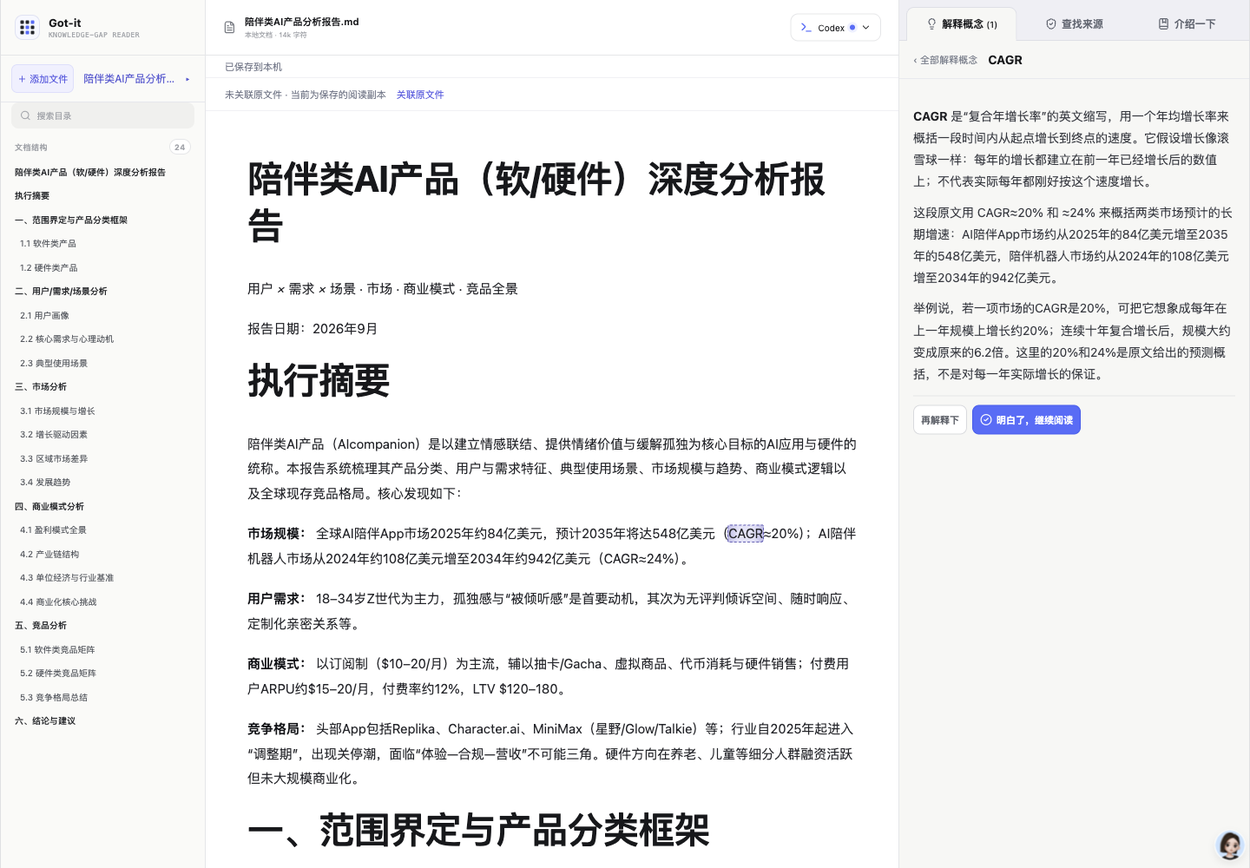
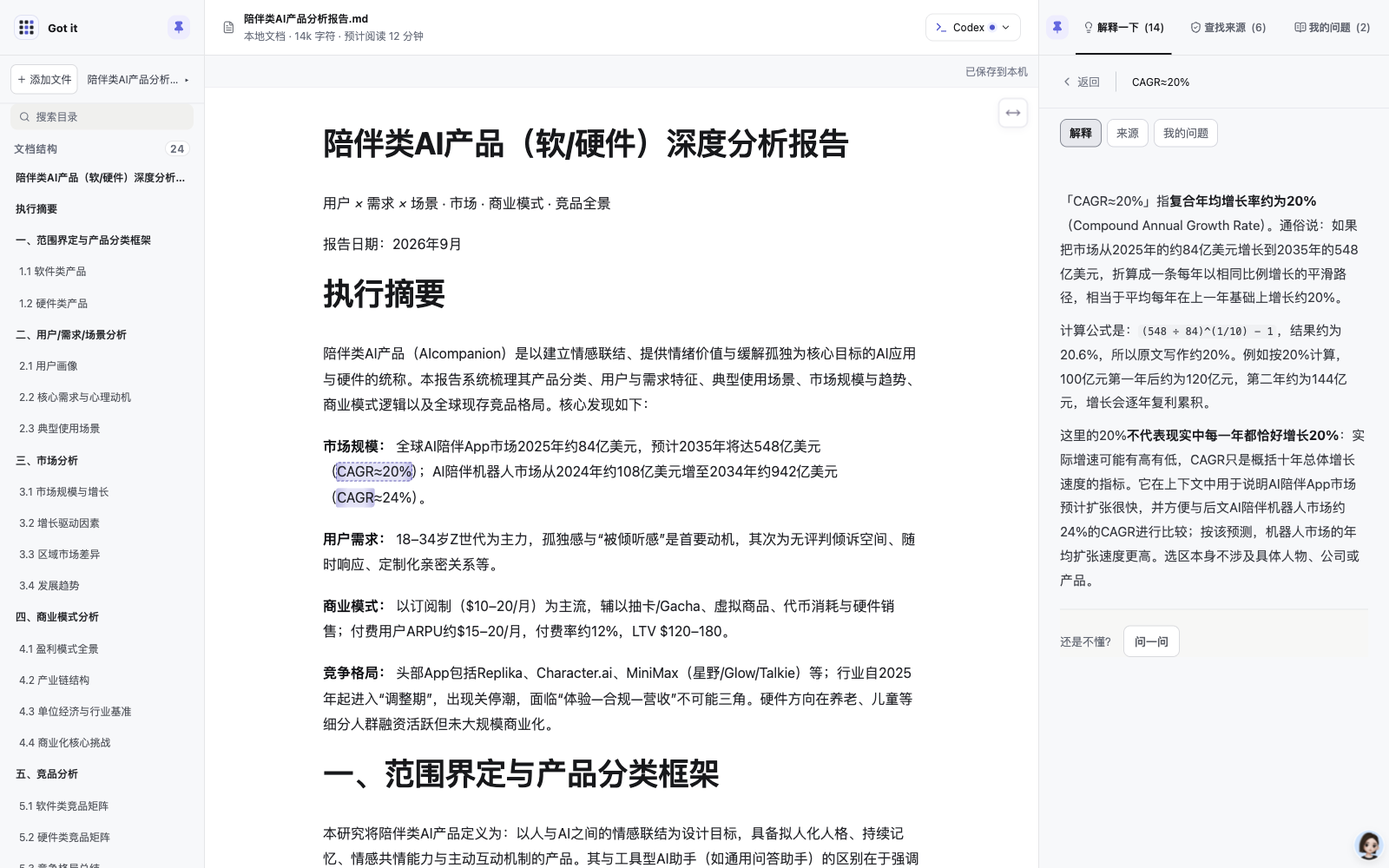
Refresh README and screenshots with current Markdown and WGSN PDF views

diff --git a/README.en.md b/README.en.md
@@ -1,73 +1,66 @@
-# Got it
-
-**Make sense of it. Keep reading.**
-
-Understand what stopped you. Get back to the bigger picture.
+# Got-it
 
 [简体中文](README.md) · **English**
 
-## Why Got it
+**Make sense of it. Keep reading.**
 
-AI can produce a long report in minutes. Understanding it still takes time.
+Got-it is a local-first Markdown and PDF reader. Select an unfamiliar passage, explain it or find sources beside the original, and keep useful answers linked to the text. Your reading records stay in a local library, ready to reopen.
 
-While reading a business analysis, research report, or long article, you might encounter an unfamiliar concept, a confusing argument, or a number whose source is unclear. To make sense of it, you copy the passage into an AI app, add some context, and ask for an explanation.
+> **v0.1.0 · Early preview.** Requires a locally installed, signed-in Codex. macOS Apple Silicon has been tested; Windows/Linux remain experimental pending native UI validation. No accounts, cloud sync or collaboration inside Got-it.
 
-You may get an answer, but that answer now lives in a separate conversation, disconnected from the text. Returning to the article means finding your train of thought again. The next time you read it, you may not remember what you asked—or where the answer went.
+## See it in action
 
-Got it keeps that process beside the article: **select what you don't understand, get an explanation or check the evidence, then keep reading.** Save useful explanations as knowledge cards linked to the original passage, ready to revisit later.
+These screenshots were captured from the latest code on **October 9, 2026**. The Markdown example is an AI companion product analysis; the PDF is WGSN’s report on silver-generation consumers. Only excerpts are shown, and the complete reports are not distributed. Report figures are unverified input, not endorsed conclusions. Markdown answers are previously saved real model responses, not newly generated for this refresh.
 
-## What the MVP does
+### 1. Keep reading in context
 
-Got it is an AI reading tool for Markdown articles and original-layout PDFs.
+Navigate chapters on the left, read in the center, and revisit knowledge cards on the right. Markdown keeps headings, lists and tables; PDFs retain their original layout. Switching documents or reopening an answer does not call a model or change the original file.
 
-| When you encounter… | Got it helps you… |
-| --- | --- |
-| An unfamiliar concept or term | Understand it in context, with simple examples. |
-| A company, product, or subject you don't recognize | Learn what it is, what it does, and how it relates to the article. |
-| A claim or figure with unclear support | Find relevant sources, see how the evidence relates to the claim, and identify remaining gaps. |
-| An explanation that still feels difficult | Ask for a shorter explanation or a simple example. |
-| An explanation worth keeping | Keep it as a knowledge card linked to the passage, saved with your reading progress. |
+![Current Markdown reader with the AI companion report and knowledge cards](docs/images/reading.png)
 
-Concept explanations and specific questions search when necessary background or current information is missing; sufficient source material is explained directly. Explanations and source results offer a noninteractive “Still unclear?” prompt beside an Ask button. Opening it does not call a model; submitting creates a separate question. Source results no longer show a search-again or answer-history entry; failed or interrupted searches can still be retried. Stored history is preserved. Model calls still require a network connection. Timeouts and cancellation preserve partial content; retries retain the original mode.
+### 2. Explain an unfamiliar concept or product
 
-Web-based verification requires an AI connection that supports search. When evidence is insufficient, Got it makes that uncertainty visible rather than treating an AI answer as an established fact.
+Select a term such as CAGR, a product name, or a difficult passage and choose **Explain**. Concepts, people, companies and products share this entry point. Missing background can be searched when needed. Use **Ask** to submit a more specific question.
 
-All functions default to **GPT-6.1 SOL / Medium**. The model menu reads the installed Codex catalog and supports explicit refresh. Unavailable target configurations are reported rather than silently replaced. Historical answers keep their original model metadata.
+![A CAGR explanation beside the original passage](docs/images/explain.png)
 
-Explain covers concepts, people, organizations and products. Each selected passage can retain separate explanation, source and custom-question results. First opening prefers an existing explanation; later visits remember the last result viewed. The custom-question switch shows only “我的问题” (My questions); individual questions remain accessible from their list.
+### 3. Find sources for a claim
 
-The right panel resizes from 220–720px. Its header progressively switches from full labels to icons with counts, then icons only. Full labels remain down to 380px and counts down to 240px, with a small buffer when expanding. Drag another 48px beyond the minimum and release to collapse; reopening restores the previous width and draft. Narrow screens use a drawer.
+Select a claim or figure, find related sources, and inspect the original pages and verification details. **Finding a link does not establish that a claim is true.** Search execution, page access, quotation checks and evidential support are separate states.
 
-Markdown has a horizontal-arrow icon in the upper-right reading corner for content width (50–100%, default 80%), without changing font size. Code blocks use a light background and the body text size. Markdown and PDF save status stays at the far right, with delayed success feedback to avoid flickering during continuous changes.
+![A related source for the market forecast around the selected CAGR](docs/images/sources.png)
 
-The document header estimates reading time locally. PDFs use native text only when coverage is sufficient; this estimate never triggers OCR or an AI request. “向全文提问” (Ask about the whole document) sits below the right-hand My questions list. It uses complete short texts or up to 16,000 characters of structure and relevant excerpts for long documents; PDFs require sufficient native text. Selection-based questions remain scoped to their passage. Enter sends; Shift+Enter adds a line, with input-method composition protected.
+### 4. Ask your own question
 
-## From a question back to the text
+Ask about the selected passage—for example, recalculate a growth rate from the report’s numbers. Explanations, sources and questions remain separate and can be switched without regenerating answers. Click the excerpt above an answer to return to its original location.
 
-1. **Open an article.** Import a Markdown or PDF document and start reading.
-2. **Select what stops you.** Choose Explain or Find sources, or open Ask to enter a specific question.
-3. **Make sense of it beside the text.** Read the answer, ask a specific question, or inspect the sources.
-4. **Keep reading.** Return to the article or the previous list position without confirming understanding. Answers are saved with their original passages.
+![A specific question and CAGR calculation using the report's figures](docs/images/question.png)
 
-Notes remain linked to their original passages and are saved in a local on-disk reading library. Browser storage retains preferences and an emergency recovery cache. Original files are not modified. PDF copies, OCR data and selected image crops are stored alongside the reading records. Legacy `.focus` and complete JSON backups can still be imported; the current UI does not offer an export/download button.
+**Ask about the whole document** sits below the My questions list. Short documents use all available text; long documents provide up to 16,000 characters of structure and relevant excerpts, with coverage disclosed. PDFs need sufficient native text; this feature does not automatically run OCR.
 
-When two different, unresolved reading records exist, a short dialog describes the differences and lets you choose which to continue. Identical, single or already-resolved records do not prompt. Clicking outside or pressing Escape dismisses the dialog for this reading visit; reopening the article reminds you of unresolved differences. The other record stays safely stored without a permanent history panel.
+### 5. Read and select directly on PDF pages
 
-Use the trash icon beside the category count to enter deletion mode. Each card shows an aligned trash icon; click once to change it to a confirmation check, then click again to delete the card and its answers. Escape or the heading trash icon exits deletion mode. Other cards and the original document remain intact.
+WGSN’s original case-study page is shown below. PDFs scroll continuously, and the chapter outline supports search and navigation. Collapse the sidebars for more reading space.
 
-## PDF reading
+![WGSN report with original images, layout and chapter navigation](docs/images/pdf-reading.png)
 
-Select native text directly, or use “框选内容” for images and scanned or complex passages. Choose Explain, Find sources, or submit a specific question; only then does local OCR start. The original crop and auxiliary text go to the model together. Cancel, Escape or a blank-area click clears the draft. The compact excerpt locates the original page; narrow screens close the answer panel after successful positioning. The separate preview and OCR correction controls have been removed; existing crops, original recognition text and corrections remain saved and are reused for retries. The app fills the window without outer gutters. Both sidebars can be collapsed or pinned independently using mirrored pin controls beside the reading area; pin preferences are saved locally. Edge buttons or hover reveal collapsed sidebars and let automatically fitted PDFs follow the remaining width. Intentionally opened answers stay visible. An unpinned answer panel can be closed with Escape or its bottom-right collapse button, retaining answers and unsent drafts. Narrow screens retain the drawer controls. A single 36px sticky toolbar holds the current page, region selection, inline instructions and right-aligned save state; controls are not repeated on every page.
+Select native text directly, or use **Select region** for images, scans and complex layouts. Include the image and necessary captions, then choose Explain, Find sources or Ask. Local recognition and the model request begin only after choosing a function. This screenshot shows the selection menu before an answer is requested.
 
-The left navigation can collapse, open temporarily on hover at the left edge, or remain pinned. Pages, highlights, answers and learning states survive reopening; cards return to their original page regions.
+![A WGSN image and caption selected with the available question actions](docs/images/pdf-selection.png)
 
-PDF pages scroll continuously and fit the reading area by default. A diagonal-arrow icon in the upper-right corner of the reading area opens a slider and percentage field for continuous zoom from 25% to 400%; manual scale persists through window and sidebar changes and is remembered locally per PDF. The reset icon restores automatic fitting. The same compact icon opens the controls at every screen size; Escape or an outside click closes them. Desktop trackpad zoom events and Ctrl/Command + wheel zoom the original content; ordinary wheel scrolling remains unchanged. Limits: 50 MiB, 200 pages, no encrypted files; OCR is limited to 60 seconds per region and can contain recognition errors. Crop uploads are PNG, at most 8 MiB and 4096 pixels per side. Image explanations require an image-capable Codex model and are not fact verification. PDF/OCR assets are prepared locally during installation; AI requests still need network access.
+### Reading controls
 
-PDF records are not portable `.focus`/JSON exports. Back up the complete application data directory with the service stopped. Legacy Markdown backups remain supported; importing Markdown with local relative image files is still a separate gap. See the [latest update and validation](docs/updates/2026-10-09-reading-controls.md).
+- Pin or collapse either sidebar independently. Drag the right panel to resize it; narrow screens use drawers.
+- Adjust Markdown content width from 50–100% (default 80%), or PDF zoom from 25–400%, using the upper-right reading control. PDF can reset to automatic fitting. Preferences stay local.
+- Wait for **Saved locally** before closing. Reopen to continue reading and revisit cards. Save failures offer retry; conflicting records retain both versions for your choice.
+- Delete cards through the category’s trash control and a second confirmation. The original passage and other cards remain intact.
+- Opening a question input does not call a model. Enter sends; Shift+Enter adds a line. Stopping, timing out or failing preserves received content and allows retry.
+
+All functions currently default to **GPT-6.1 SOL / medium**. AI settings read the installed Codex model catalog; unavailable configurations are reported rather than silently replaced. Reading-time estimates are computed locally without model calls. See the [latest update and validation scope](docs/updates/2026-10-09-reading-controls.md).
 
 ## Run locally
 
-Early preview (v0.1.0). Requires Node.js **24.14.1 / Node 24**, npm **11.x**, and a locally installed, signed-in Codex. macOS Apple Silicon has been tested; Windows/Linux remain experimental pending native UI validation.
+Requires **Node.js 24.14.1 / Node 24** and **npm 11.x**. If using nvm, run `nvm install` and `nvm use` first.
 
 ```bash
 npm ci
@@ -75,12 +68,59 @@ npm run build
 npm start
 ```
 
-Keep the terminal open and visit <http://127.0.0.1:8787/>. Do not expose the local API to the public internet. AI requests require network access and your own Codex account; local storage does not mean offline AI.
+The browser opens <http://127.0.0.1:8787/>. Keep the terminal running; Ctrl+C stops the service. Use `npm start` for subsequent launches, and reinstall/rebuild after updating the code. Do not install with `--omit=dev`: the local launcher uses `tsx`.
 
-The [Chinese README](README.md) includes four real screenshots, setup details and known limitations. See the [release checklist](docs/release-checklist.md), [validation results](docs/release-results.md), and [security notes](SECURITY.md). Screenshot report figures are unverified input, not endorsed research conclusions.
+1. Open AI settings and check the Codex connection. If needed, choose Log in to Codex and complete official authorization, or run `codex login` in a terminal.
+2. Add a Markdown or PDF file, or try the built-in example.
+3. Select a passage or PDF region and choose an action.
+4. Wait for the saved status before closing.
 
-Source code is available under the [MIT License](LICENSE).
+Got-it does not read, copy or store Codex tokens. On macOS it prefers the Codex.app / ChatGPT.app executable, then `codex` on PATH; `CODEX_CLI_PATH` can override it. See [validation results](docs/release-results.md) for the tested setup.
 
----
+For development:
 
-**A place for your questions. More attention for the article.**
+```bash
+npm run dev
+```
+
+The frontend runs at `127.0.0.1:5173` and the API at `127.0.0.1:8787`. Set `BROWSER=none` to suppress automatic opening; PowerShell uses `$env:BROWSER="none"`. Pass environment variables through the launching shell; `.env.example` documents configuration but `.env` is not loaded automatically.
+
+## Storage and privacy
+
+- Markdown snapshots, PDF copies, OCR resources, crops, cards and answers are stored on disk. Original files remain unchanged. Browser storage keeps preferences and emergency recovery data.
+- Default data directories: macOS `~/Library/Application Support/Got-it`; Windows `%LOCALAPPDATA%/Got-it`; Linux `$XDG_DATA_HOME/got-it` or `~/.local/share/got-it`. Override with `GOT_IT_DATA_DIR`; run only one service per data directory.
+- PDF outlines prefer embedded bookmarks, otherwise extracting headings locally. Saved outlines are restored on reopening; recognition or save failures offer retry.
+- OCR runs locally using assets prepared during installation. Image questions send the selected crop and auxiliary text to the model. Selection requests send bounded context; only explicit document-wide questions prepare broader document material.
+- **Local storage does not mean offline AI.** Model calls require network access, your own Codex account and available quota. Source checking reads a limited number of public pages without your browser login credentials.
+- Local saving is not an off-device backup. Stop the service and back up the complete application data directory for important reading records. Do not clear browser data to resolve a save error.
+
+## Current limitations
+
+- Codex only. One active document at a time; no Word, original-text editing, cloud sync or collaboration.
+- PDFs must be unencrypted, at most 50 MiB and 200 pages. Their fixed layout does not reflow like Markdown. Image explanations require an image-capable model.
+- OCR covers Simplified Chinese and English, with a 60-second limit per recognition task. Complex layouts, numbers and small text can be misread; return to the original page to check. The current UI does not edit OCR text. Crops are at most 8 MiB with a longest side of 4096 pixels.
+- Automatically inferred PDF outlines may omit or misread headings; there is no manual outline editor. Switching materials interrupts generation, and reopening a document without an outline tries again.
+- Document-wide questions may not cover every part of a long document. PDFs without sufficient native text report the limitation instead of silently using OCR.
+- There is no current backup-download button. PDFs require the full data directory; legacy Focus Stickies, `.focus` and complete JSON workspaces can still be imported. Older app versions cannot read PDF workspaces.
+- Markdown relative local images and cross-paragraph selections are not supported. Substantial source changes may require relocating anchors. Browser imports do not receive original file paths; the macOS native picker can establish an association. Source updates require confirmation and retain old versions/cards.
+- Existing answers do not imply understanding or verified facts. Cancellation, disconnection and timeouts are not replaced with demo answers.
+- **Do not expose the local API to the public internet.** GitHub Pages cannot replace it.
+
+## Development and release checks
+
+```bash
+npm test
+npm run build
+npm run test:release
+npm audit --audit-level=high
+```
+
+The build includes type checking. Release smoke tests use isolated data to check built assets, API boundaries, missing Codex and restart behavior without model calls. GitHub Actions runs checks on macOS, Linux and Windows; this is distinct from native UI validation.
+
+See the [release checklist](docs/release-checklist.md), [recorded validation](docs/release-results.md), and [security notes](SECURITY.md).
+
+Maintainers use `npm run release:prepare` to create an allowlisted public snapshot, then sync it to the existing public repository while preserving its independent history. Do not push the internal working repository. Snapshots exclude private reading data, internal evidence and development history; review screenshots separately from text scans.
+
+## License
+
+Project code uses the [MIT License](LICENSE). Third-party names, logos and report excerpts appear only to illustrate the product; they imply neither endorsement nor a license to redistribute the underlying third-party material.

diff --git a/README.md b/README.md
@@ -10,57 +10,55 @@ Got-it 是本地优先的 Markdown / PDF 阅读器。阅读行业报告、产品
 
 ## 看看它能做什么
 
-下面使用一份「陪伴类 AI 产品分析报告」展示真实界面与真实模型回答。截图中的市场预测和用户比例是**待核查的报告原文**，不是 Got-it 认可的研究结论；AI 回答也可能出错。历史展示截图仅作为当时界面证据；当前行为与验证范围见[最新更新](docs/updates/2026-10-09-reading-controls.md)。
+以下截图于 **2026-10-09** 使用最新代码重新拍摄：Markdown 为《陪伴类 AI 产品分析报告》，PDF 为 WGSN《银发一代消费者洞察》。截图只展示报告片段，不分发完整材料；报告中的预测与数字不代表已经核实，AI 回答也可能出错。Markdown 回答沿用已保存的真实模型结果，本次截图未重新生成回答。
 
 ### 1. 留在文章里阅读
 
-左侧目录帮助定位长报告，正文保留表格与层级，右侧集中回看知识贴。导入自己的 `.md` 或 `.pdf` 文件即可开始，原文件不会被改写。应用铺满窗口，不保留两侧外部空白。左右侧栏可分别收起或固定，顶部靠正文的图钉镜像对应，固定偏好保存在本机；收起后可通过边缘按钮或悬停临时展开，正文使用释放的空间。主动打开的知识贴保持可读；右栏未固定时，可按 Esc 或点击右下角收起按钮关闭，已有回答与未发送草稿保留。右侧知识贴可拖动左边界调整宽度（220–720px），在本机记住偏好，并为原文保留至少 320px；聚焦边界后可用方向键微调，Enter 恢复默认。窄屏沿用打开／关闭抽屉。
+左侧目录定位章节，中间阅读原文，右侧回看与原文相连的知识贴。Markdown 保留标题、列表与表格；PDF 保留原始图文版面。切换材料或回看已有回答不会自动发起 AI 请求，原文件不会被改写。
 
-发现两份不同且尚未处理的阅读记录时，弹窗用自然语言说明差异，由用户选择当前或之前记录。内容相同、只有一份或已经选择过时，不弹版本选择。点击窗口外或按 Escape 可暂时关闭，本次不重复弹，下次打开文章再提醒未处理差异。旧快照后台保留，不常驻展示相同内容、全量对照或历史入口；只有需要核对的不同回答或原文可按需展开。文件路径及复制按钮始终保留在右侧（窄屏按行排列）。
+![最新版 Markdown 阅读界面：陪伴类 AI 产品报告、目录和知识贴列表](docs/images/reading.png)
 
-![Got-it 阅读界面：目录、报告正文和知识贴区域](docs/images/reading.png)
+### 2. 不懂术语或产品，就「解释一下」
 
-Markdown 正文右上角的水平双箭头图标展开「正文宽度」浮层：滑杆或百分比输入在 50%–100% 之间调节，默认 80%，恢复按钮回到默认。正文居中重排、字号不变；小窗口优先保证可读宽度，图标位置保持固定。偏好记在本机，调整本身不触发保存状态。两种格式的保存状态均固定在工具栏最右侧；调节入口为 34px 方形按钮，距正文容器顶部与右侧各 12px，滚动时保持可用。
+选中 CAGR、产品名称或一段难懂的文字，点击「解释一下」，在原文旁看说明。概念、人物、公司和产品共用这一入口；缺少必要背景时按需查阅资料。仍有疑问时点击「问一问」，提交自己的问题。
 
-页头显示「预计阅读 xx 分钟」：Markdown 按正文估算，PDF 仅使用已有原生文字层，扫描件或文字不足时省略。本机计算不额外运行 OCR、不调用模型；按每分钟约 400 个中文字／200 个英文词粗估通读时间，最少 1 分钟，不包含提问或查证时间。
+![CAGR 的解释与原文并排显示，底部可继续问一问](docs/images/explain.png)
 
-### 2. 遇到 CAGR，直接解释
+### 3. 对数字有疑问，就「查找来源」
 
-选中术语并点击「解释一下」，补充说明就在旁边。首次解释与具体问题按需查阅资料：原文足够时直接回答，缺少必要背景或当前信息时在同轮搜索，解释最多使用两条来源，具体问题最多使用三条来源。普通回答以紧凑链接呈现资料，正文已有的链接不重复展示，仍保留实际搜索失败和正文未取得等限制，未知搜索状态不显示常驻警告；「查找来源」保留完整核对卡片。解释和查找来源详情显示「还是不懂？」提示和「问一问」按钮，只有按钮可点击；展开不生成回答，提交后问题归入「我的问题」，保留原解释或查证。旧「再解释下」记录及失败重试仍可用。模型调用本身仍需联网。所有功能默认使用 GPT-6.1 SOL / medium；本机目录暂不支持时保留设置并提示，不自动替换型号。阅读后可直接继续看原文，或返回分类列表；无需确认理解。详情顶部摘录可定位原文，返回列表会恢复之前的位置，解释等详情的历史回答折叠放在当前回答之后；查找来源不显示历史回答入口，失败或中断时保留「重试」。列表的「已有解释／已有回答／已有结果」仅表示回答进展，不代表用户已理解或事实已证实。
+选中报告中的主张，寻找相关来源，再打开原文和核对详情。**找到相关链接不等于主张已被证实。** 搜索是否执行、网页是否可读、引用是否核对、证据是否支持主张，是不同的状态。
 
-请求采用整轮时间预算，超时或停止后保留已收到内容并允许重试；联网补充重试保持联网模式。默认解释/介绍 120 秒、查证 240 秒，可沿用现有环境配置。休眠期间无法更新界面，恢复运行后检查已过期请求。[本次验收与限制](docs/updates/2026-09-30.md)。
+![针对 CAGR 所在市场预测查找相关来源](docs/images/sources.png)
 
-![选中 CAGR 后，右侧展示真实概念解释](docs/images/explain.png)
+### 4. 带着具体问题继续读
 
-### 3. 看到年龄比例，回到来源确认
+用「问一问」提出自己的问题，例如按原文数字重新计算增长率。同一处原文的解释、来源和问题分别保留，可直接切换；点击详情顶部摘录可回到原文位置。
 
-选中报告里的主张，点击「查找来源」。查看来源页面、引用和限制，再决定怎么使用这段信息；找到链接不等于原文已被证实。
+![根据陪伴类 AI 产品报告的原文数字提问，查看 CAGR 计算结果](docs/images/question.png)
 
-![对报告中的年龄主张查找来源](docs/images/sources.png)
+想问整篇材料时，在右侧「我的问题」列表下方选择「＋ 向全文提问」。短文使用完整可用文字；长文最多提供 16000 字符的结构和相关片段，并说明覆盖范围。PDF 需要足够的原生文字，不会为全文提问自动运行 OCR。
 
-### 4. 不认识产品，先了解背景
+### 5. 在 PDF 原页上看图、选区、提问
 
-选中产品或公司，同样点击「解释一下」。原来的介绍记录归入解释分类，内容和历史保留。选区另有「查找来源」和按需展开的「问一问」入口；具体问题单独保存，可继续追问。询问「有哪些产品」时，新回答默认列出 3–5 个代表项，每项包含名称、简短特点及实际确认的官网／产品页链接；明确要求详细比较时再展开，旧回答不自动改写。
+下面使用 WGSN《银发一代消费者洞察》的案例页。PDF 连续滚动，左侧章节目录支持搜索和跳转；侧栏可收起，让原页获得更多空间。
 
-同一处原文的解释、来源、具体问题可在右侧切换，一次只展开一个结果。首次点击原文优先解释，之后恢复该处上次查看的结果；从列表指定条目时直接打开所选结果，不触发模型。
+![WGSN 银发一代消费者洞察：原版图文、章节目录和连续阅读](docs/images/pdf-reading.png)
 
-[三种结果的真实走查与当前截图](docs/updates/2026-10-09-reading-controls.md)。下面产品介绍截图为合并前的历史界面。
+有文字层时可直接选字；图片、扫描件或复杂版面可点击「框选内容」，把图片及必要说明一起框入，再选择解释、来源或具体问题。**选择功能后才进行本机识别并发起模型请求。** 这张图停留在选区菜单，尚未生成回答。
 
-![在原文旁了解陪伴类 AI 产品](docs/images/introduction.png)
+![在 WGSN 案例页框选图片与说明，展开解释、查找来源和问一问菜单](docs/images/pdf-selection.png)
 
-右侧「我的问题」列表下方可点击「＋ 向全文提问」，输入框原位展开，无需选区；提交后标记为「全文」，可以继续追问。短文提供完整可用文字，长文最多提供 16000 字符的文章结构、开头与问题相关片段，并提示覆盖范围。PDF 只读取原生文字层，不为此运行 OCR；文字不足时保留问题并说明原因。打开输入框或回看旧问题不会调用模型。
+### 让阅读保持顺手
 
-分类标题右侧的垃圾桶可开启删除模式。点击某条右侧垃圾桶变为确认图标，再次点击删除该知识贴及全部回答；按 Esc 或再次点击标题垃圾桶退出。删除不改写原文，同一选区的其他知识贴保留。
+- **调节阅读空间：** 左右侧栏可独立固定或收起，右侧知识贴可拖动调宽；窄屏使用抽屉。
+- **按格式调节：** Markdown 右上角调正文宽度（50%–100%，默认 80%）；PDF 右上角调页面缩放（25%–400%），也可恢复自动适合宽度。偏好保存在本机。
+- **保存与恢复：** 等待工具栏显示「已保存到本机」，重开后继续阅读和回看知识贴；保存失败可重试，存在不同阅读记录时保留双方并让你选择。
+- **整理知识贴：** 分类标题旁的垃圾桶开启删除模式，单条二次确认后删除，原文和同一选区的其他知识贴保留。
+- **你掌握请求时机：** 打开输入框不调用模型；Enter 发送，Shift+Enter 换行。停止、超时或失败时保留已有内容并允许重试。
 
-### 5. 直接阅读 PDF 图文
+当前默认模型为 **GPT-6.1 SOL / medium**，可在 AI 设置中查看本机 Codex 返回的可用模型。目标型号不可用时会提示，不自动换成其他模型。预计阅读时间在本机估算，不消耗模型额度。
 
-PDF 保留原始页面，不需要另找图片文件。有文字层时直接光标选字；正文不可选、图片或版面复杂时，使用「框选内容」，立即选择「解释一下 / 查找来源」，或展开「问一问」并提交问题。点击功能后才进行本机识别，将原图和辅助文字交给模型。
-
-框选时把标题、图例及必要说明一起框入。取消、Esc 或点击空白处清除选区。详情顶部摘录或「第 N 页 · 所选区域」可定位原页；窄屏定位成功后收起回答面板。详情不再提供独立预览和 OCR 纠正入口，原图、识别文字和已有修正记录仍保留，重试沿用原有上下文。保存后重开可点击标记查看已有回答。侧栏悬停展开会让阅读区同步缩小，单个图钉切换固定状态。页码、框选、操作说明和最右侧保存状态合并在一条 36px 吸顶工具栏中，页码随滚动更新，不在每页重复占行。
-
-![安全合成 PDF：连续阅读与知识贴删除模式](docs/images/pdf-reading.png)
-
-[本轮交付与验收范围](docs/updates/2026-09-30.md)。上述 Markdown 画面仍展示之前版本；这张 PDF 画面使用安全合成材料。
+更多变化与验证范围见[最新更新](docs/updates/2026-10-09-reading-controls.md)。
 
 ## 运行环境
 
@@ -117,19 +115,15 @@ npm run dev
 
 ## 当前限制
 
-- 仅支持 Codex；需要用户自己的可用账号、网络与模型额度。
-- 一次展开一份 Markdown 或 PDF；暂不支持 Word、原文编辑、云同步。
-- PDF 限 50 MiB、200 页且不能加密；保持固定版面，不能像 Markdown 一样随宽度重排。各页上下连续排列，默认自动适合阅读区宽度。正文右上角的斜向双箭头图标展开「页面缩放」浮层，滑杆与百分比输入支持 25%–400% 连续缩放；PDF 与 Markdown 统一显示“保存中”与“已保存到本机”，连续保存结束后等待 800ms 再显示成功，失败立即提示，避免拖动时反复闪字；手动比例不随窗口或侧栏变化重置，点击恢复图标重新自动适配。比例按 PDF 记在本机；所有窗口大小均点击图标展开浮层，Esc 或点击外部收起，滑动调节期间保持展开。原文区支持桌面触控板缩放事件及 Ctrl／Command＋滚轮，普通滚轮仍滚动文章。
-- 本机 OCR 首轮覆盖简体中文和英文，复杂页面须先框同一栏；数字、符号及小字可能识别错误，可通过顶部摘录返回原页核对；当前详情不提供识别文字编辑入口。识别不等于核实。单次识别限 60 秒，可取消/重试。
-- 无书签 PDF 的目录属于版面识别候选：每页优先提取一个主要标题，分篇封面可合并连续大标题；复杂排版、同页多章节或小标题可能漏识别，OCR 也可能有错字。不保证自动还原全部层级，本轮不提供人工编辑入口。切换材料会中断识别，返回无目录的材料时重新自动开始；单页 OCR 限 60 秒。当前页面识别失败后等待手动重试，重新打开无目录材料时会自动尝试；只读文档不自动生成。
-- 图像解释需要支持图片的 Codex 模型，失败会明确提示；裁图最长边 4096 像素、上限 8 MiB，不代表已核实图中事实。
-- PDF 暂无独立可携带的 `.focus`/JSON 备份；备份需保留完整应用数据目录。旧版程序不能读取新增的 PDF 工作区。Markdown 本地相对路径图片导入仍未补齐。
-- 浏览器导入不会取得原文件路径；macOS 系统选择器可建立原文件关联。
-- 原文变更需确认后更新，旧版本与知识贴保留；不会自动把旧知识贴迁到新版。
-- 跨段选区不支持；原文变化过大时锚点可能需要重新定位。
-- 搜索执行、引用文字核对、证据是否支持主张是不同状态。「已查找」只代表用户结束查看。
-- 取消、断线和超时会明确显示未完成，不会生成演示回答冒充成功。
-- 旧 Focus Stickies 工作区、`.focus` 与完整 JSON 仍可通过添加文件读取。当前没有备份下载按钮。
+- 当前仅支持 Codex，需要自己的可用账号、网络与模型额度。一次展开一份材料；不支持 Word、原文编辑、账号、云同步或多人协作。
+- PDF 上限为 50 MiB、200 页，不能加密；保持固定版面，不能像 Markdown 一样重排。图片解释需要支持图片的模型。
+- 本机 OCR 首轮覆盖简体中文和英文，单次识别限 60 秒。复杂排版、数字和小字可能识别错误；当前不提供识别文字编辑入口，应回到原页核对。裁图最长边 4096 像素、上限 8 MiB。
+- 无书签 PDF 的目录由本机识别，复杂标题可能遗漏或有错字；当前不提供手工编辑。切换材料会中断识别，重新打开无目录材料时自动尝试；失败可重试。
+- 全文提问不能保证覆盖长文每一处内容；原生文字不足的 PDF 会说明无法处理，不把 OCR 或模型回答当成事实核实。
+- 当前没有备份下载按钮。PDF 需备份完整应用数据目录；旧 Focus Stickies 工作区、`.focus` 与完整 JSON 仍可通过添加文件读取。旧版程序不能读取新增的 PDF 工作区。
+- Markdown 本地相对路径图片导入尚未补齐；跨段选区不支持，原文变化较大时锚点可能需要重新定位。
+- 浏览器导入不会取得原文件路径，macOS 系统选择器可建立原文件关联。原文更新需确认，旧版本与知识贴保留，不自动迁移到新版。
+- 搜索执行、引用核对与证据结论分别判断；「已有回答」不代表已理解或已证实。取消、断线和超时不会生成演示回答冒充成功。
 - 本地 API 仅供个人使用，**不要直接暴露到公网**。GitHub Pages 不能代替本地 API。
 
 ## 开发与发布检查
@@ -147,10 +141,8 @@ npm audit --audit-level=high
 - [本轮实际结果、真实模型验证与未覆盖项](docs/release-results.md)
 - [安全边界与问题报告](SECURITY.md)
 
-维护者从含内部历史材料的工作目录发布时，运行 `npm run release:prepare` 生成 `release/` 下的白名单快照。它不包含原 Git 历史、旧验收截图、完整报告、私人路径或本机数据；只将该目录初始化为新 Git 仓库后上传。不要直接推送原工作仓库。快照附带文件 SHA-256 清单，文本扫描不能代替截图人工审核。
+维护者从含内部历史材料的工作目录发布时，运行 `npm run release:prepare` 生成 `release/` 下的白名单快照。它不包含原 Git 历史、旧验收截图、完整报告、私人路径或本机数据；首次公开时以该快照建立独立仓库；后续更新同步到现有公开仓库并保留其独立历史。不要直接推送原工作仓库。快照附带文件 SHA-256 清单，文本扫描不能代替截图人工审核。
 
 ## 许可证
 
 项目代码采用 [MIT License](LICENSE)。文档截图仅用于说明产品，所含第三方名称、标识和报告片段不表示获得其背书，也不因此取得第三方内容的再许可权。
-
-右侧知识贴栏可拖至 220–720px。顶部随面板宽度逐级显示完整标签、图标加数量、仅图标；悬停可查看名称和数量。最窄后继续向内拖动 48px 并松手可收起，展开恢复拖动前宽度与草稿；拖动中按 Esc 取消。窄屏仍使用抽屉。
